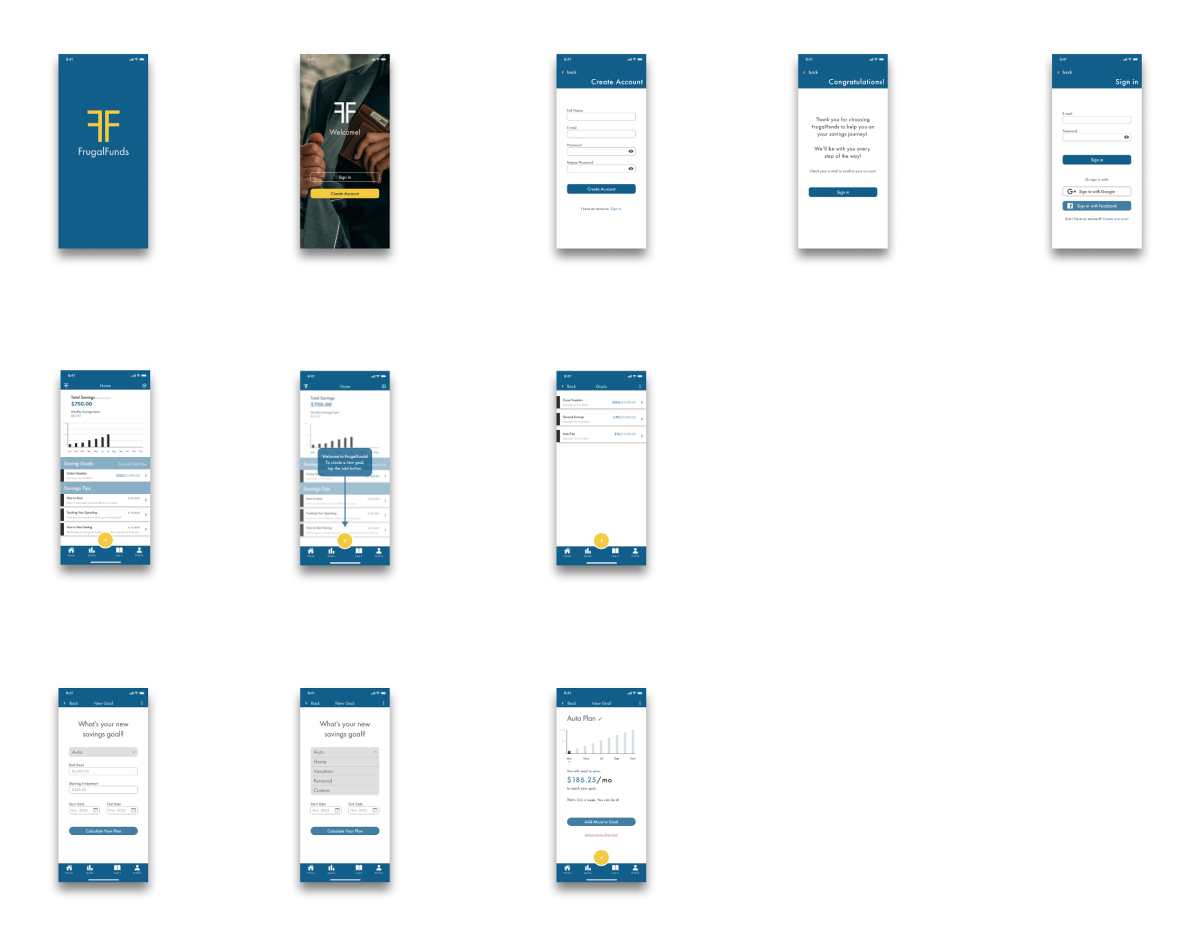
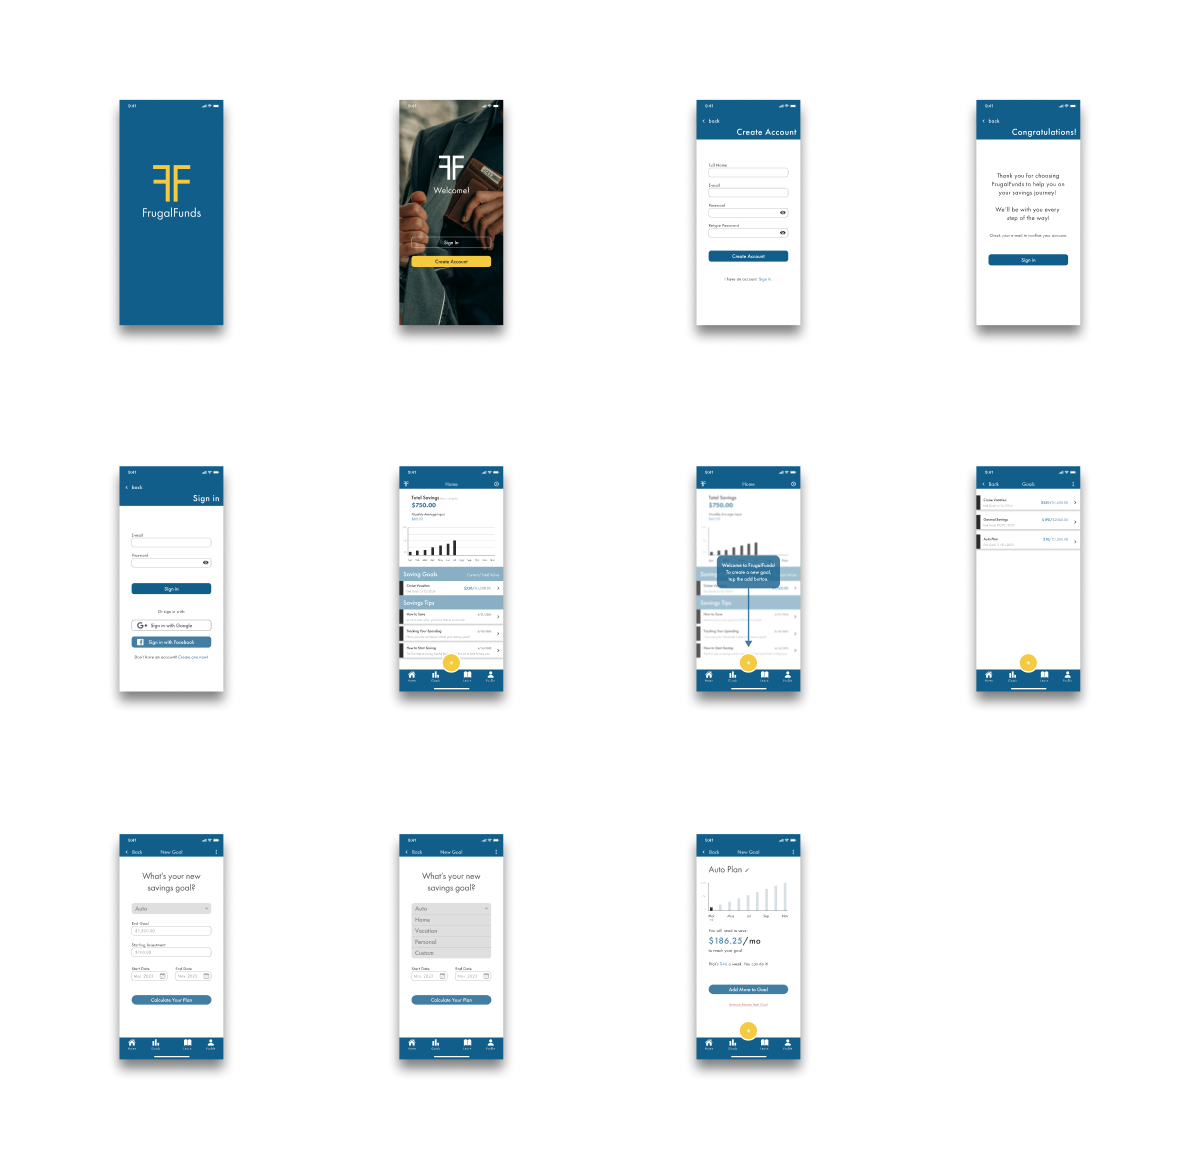
update high-fidelity section + imgs

diff --git a/frugalfunds.html b/frugalfunds.html
@@ -154,7 +154,7 @@
               take to accomplish this task?"</span>
           </p>
           <p>Below is all the data collected from my four participants and their thoughts on the app:</p>
-          <!--this is where I stopped 8/9/2023-->
+
           <div>
             <div>
               <h3><em>Jake</em></h3>
@@ -225,26 +225,13 @@
           <h2>High-fidelity Wireframes</h2>
           <div>
             <picture>
-              <source src="img/recharge/lofi@1x.png" media="(max-width:767px)">
-              <img src="img/recharge/lofi@2x.png" alt="low fidelity wireframes">
+              <source srcset="img/small/frugalfunds/hifidelity_b@1x.png" media="(max-width:767px)">
+              <img src="img/large/frugalfunds/hifidelity_b@2x.png" alt="Mid-Fidelity Screens">
             </picture>
-            <caption>
-              Created using Figma
-            </caption>
           </div>
-        </div>
-
-        <div>
-          <h2>Mid-fidelity Prototype</h2>
-          <div>
-            <picture>
-              <source src="img/recharge/midfi@1x.png" media="(max-width:767px)">
-              <img src="img/recharge/midfi@2x.png" alt="mid fidelity wireframes">
-            </picture>
-            <caption>
-              Created using Figma
-            </caption>
-          </div>
+          <p>As you can see, lines were added to the graph on the home screen. The savings goal now had both a "current"
+            value and a "total" value for the user to see quickly. And a "remove money" action was added to the goal
+            page.</p>
         </div>
 
         <div id="mvp">
